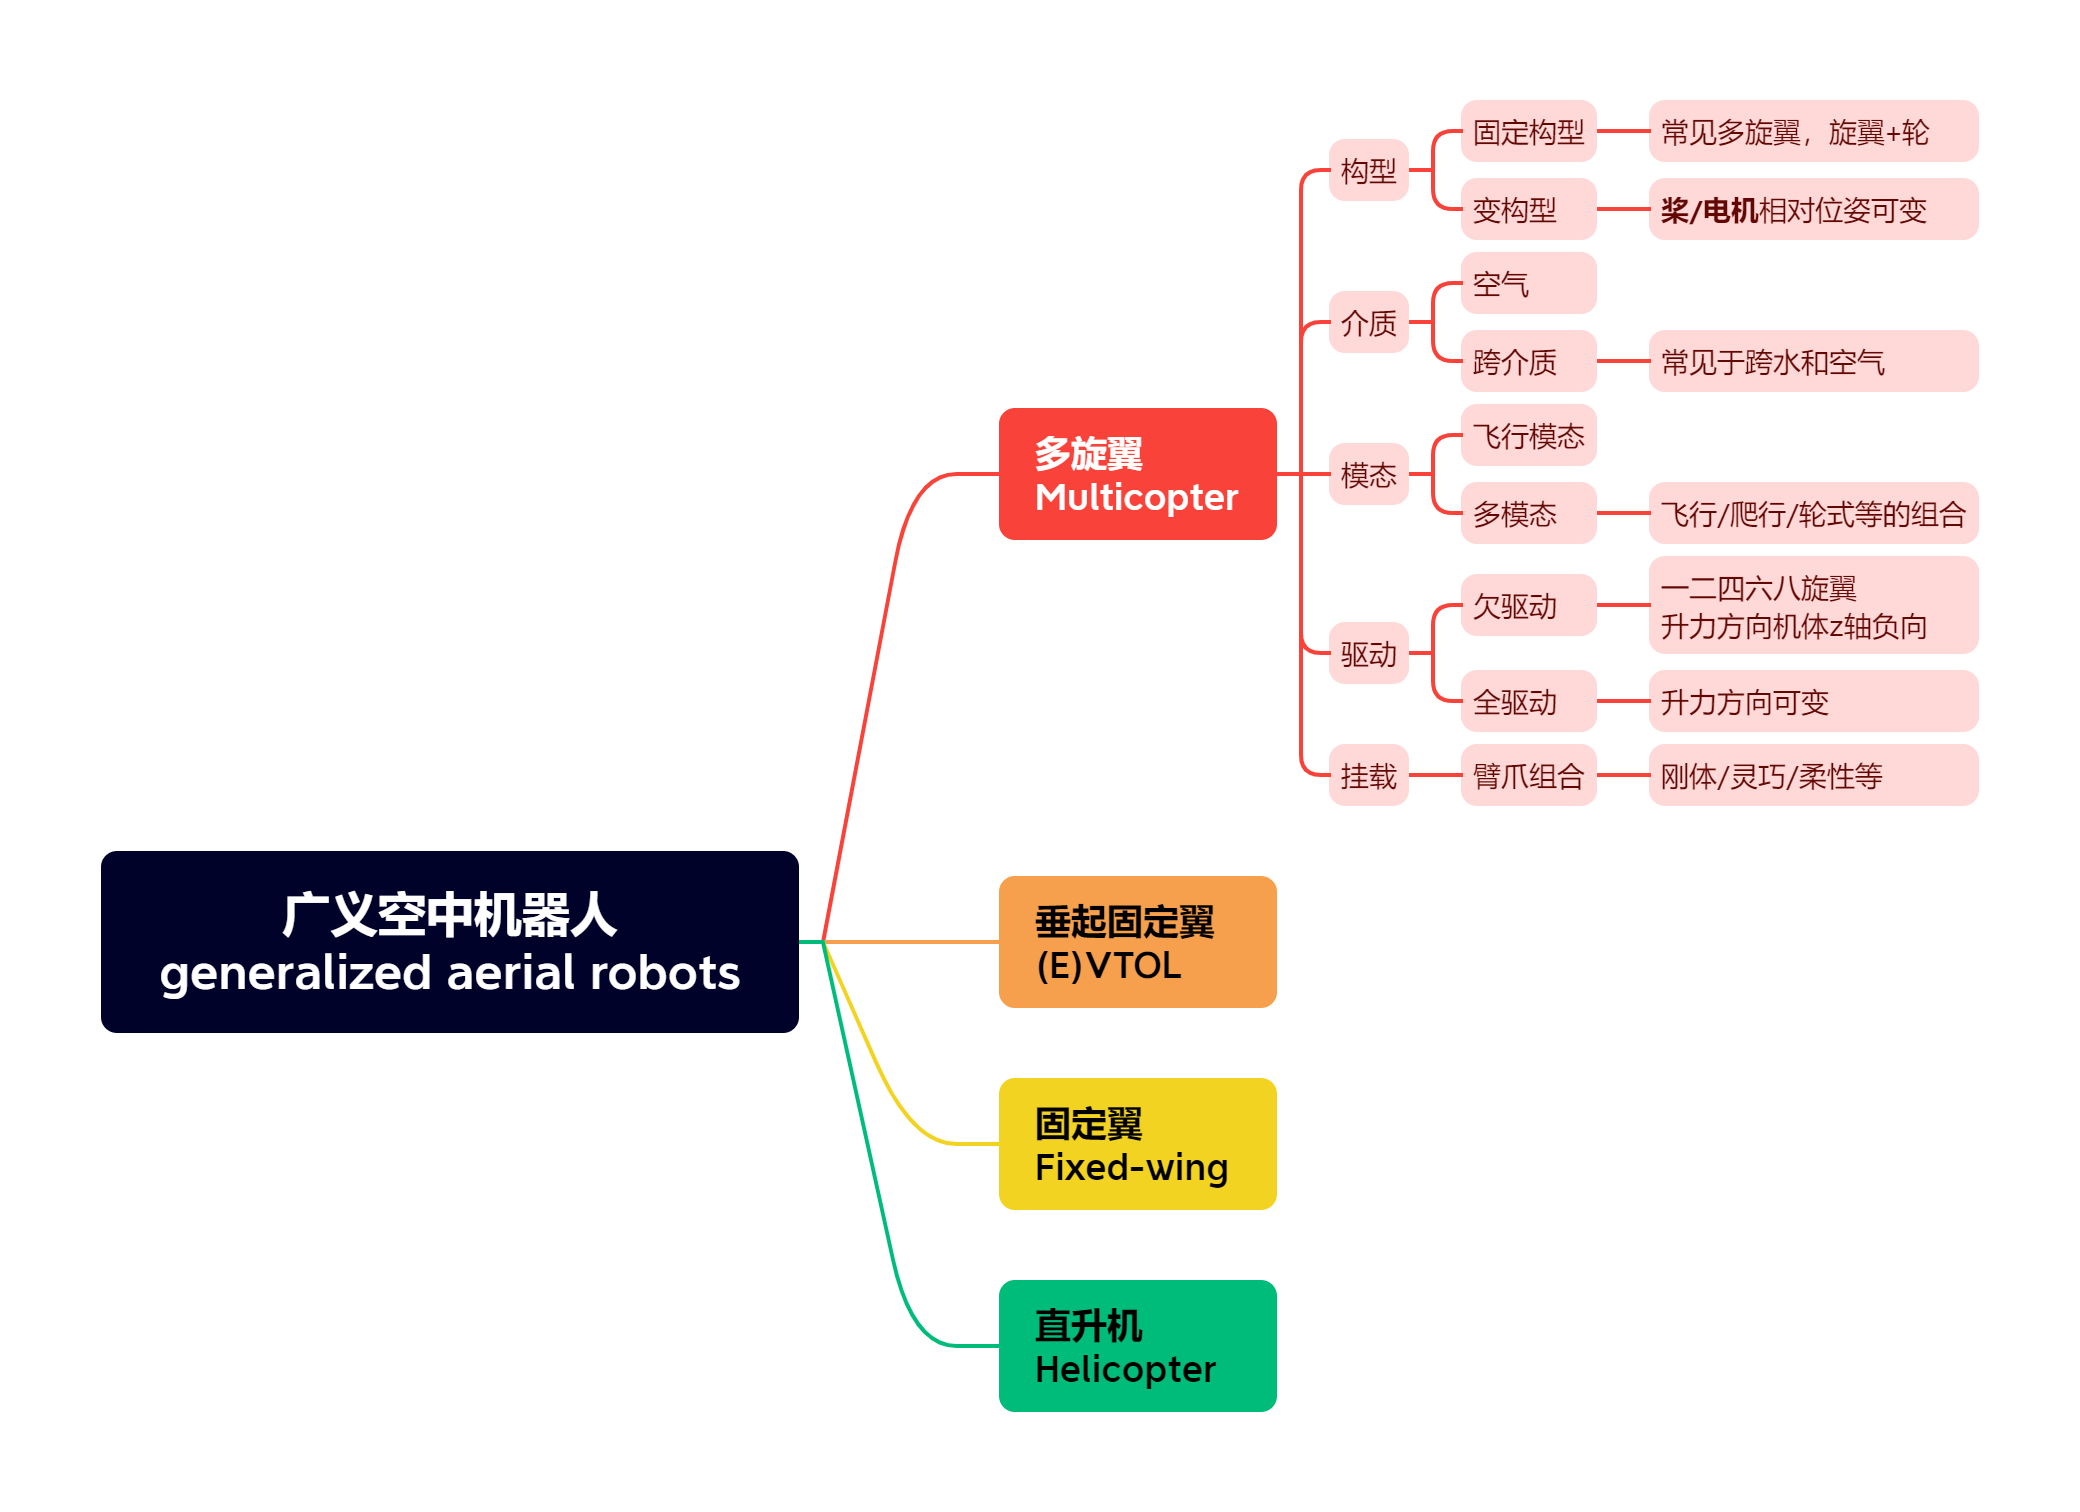
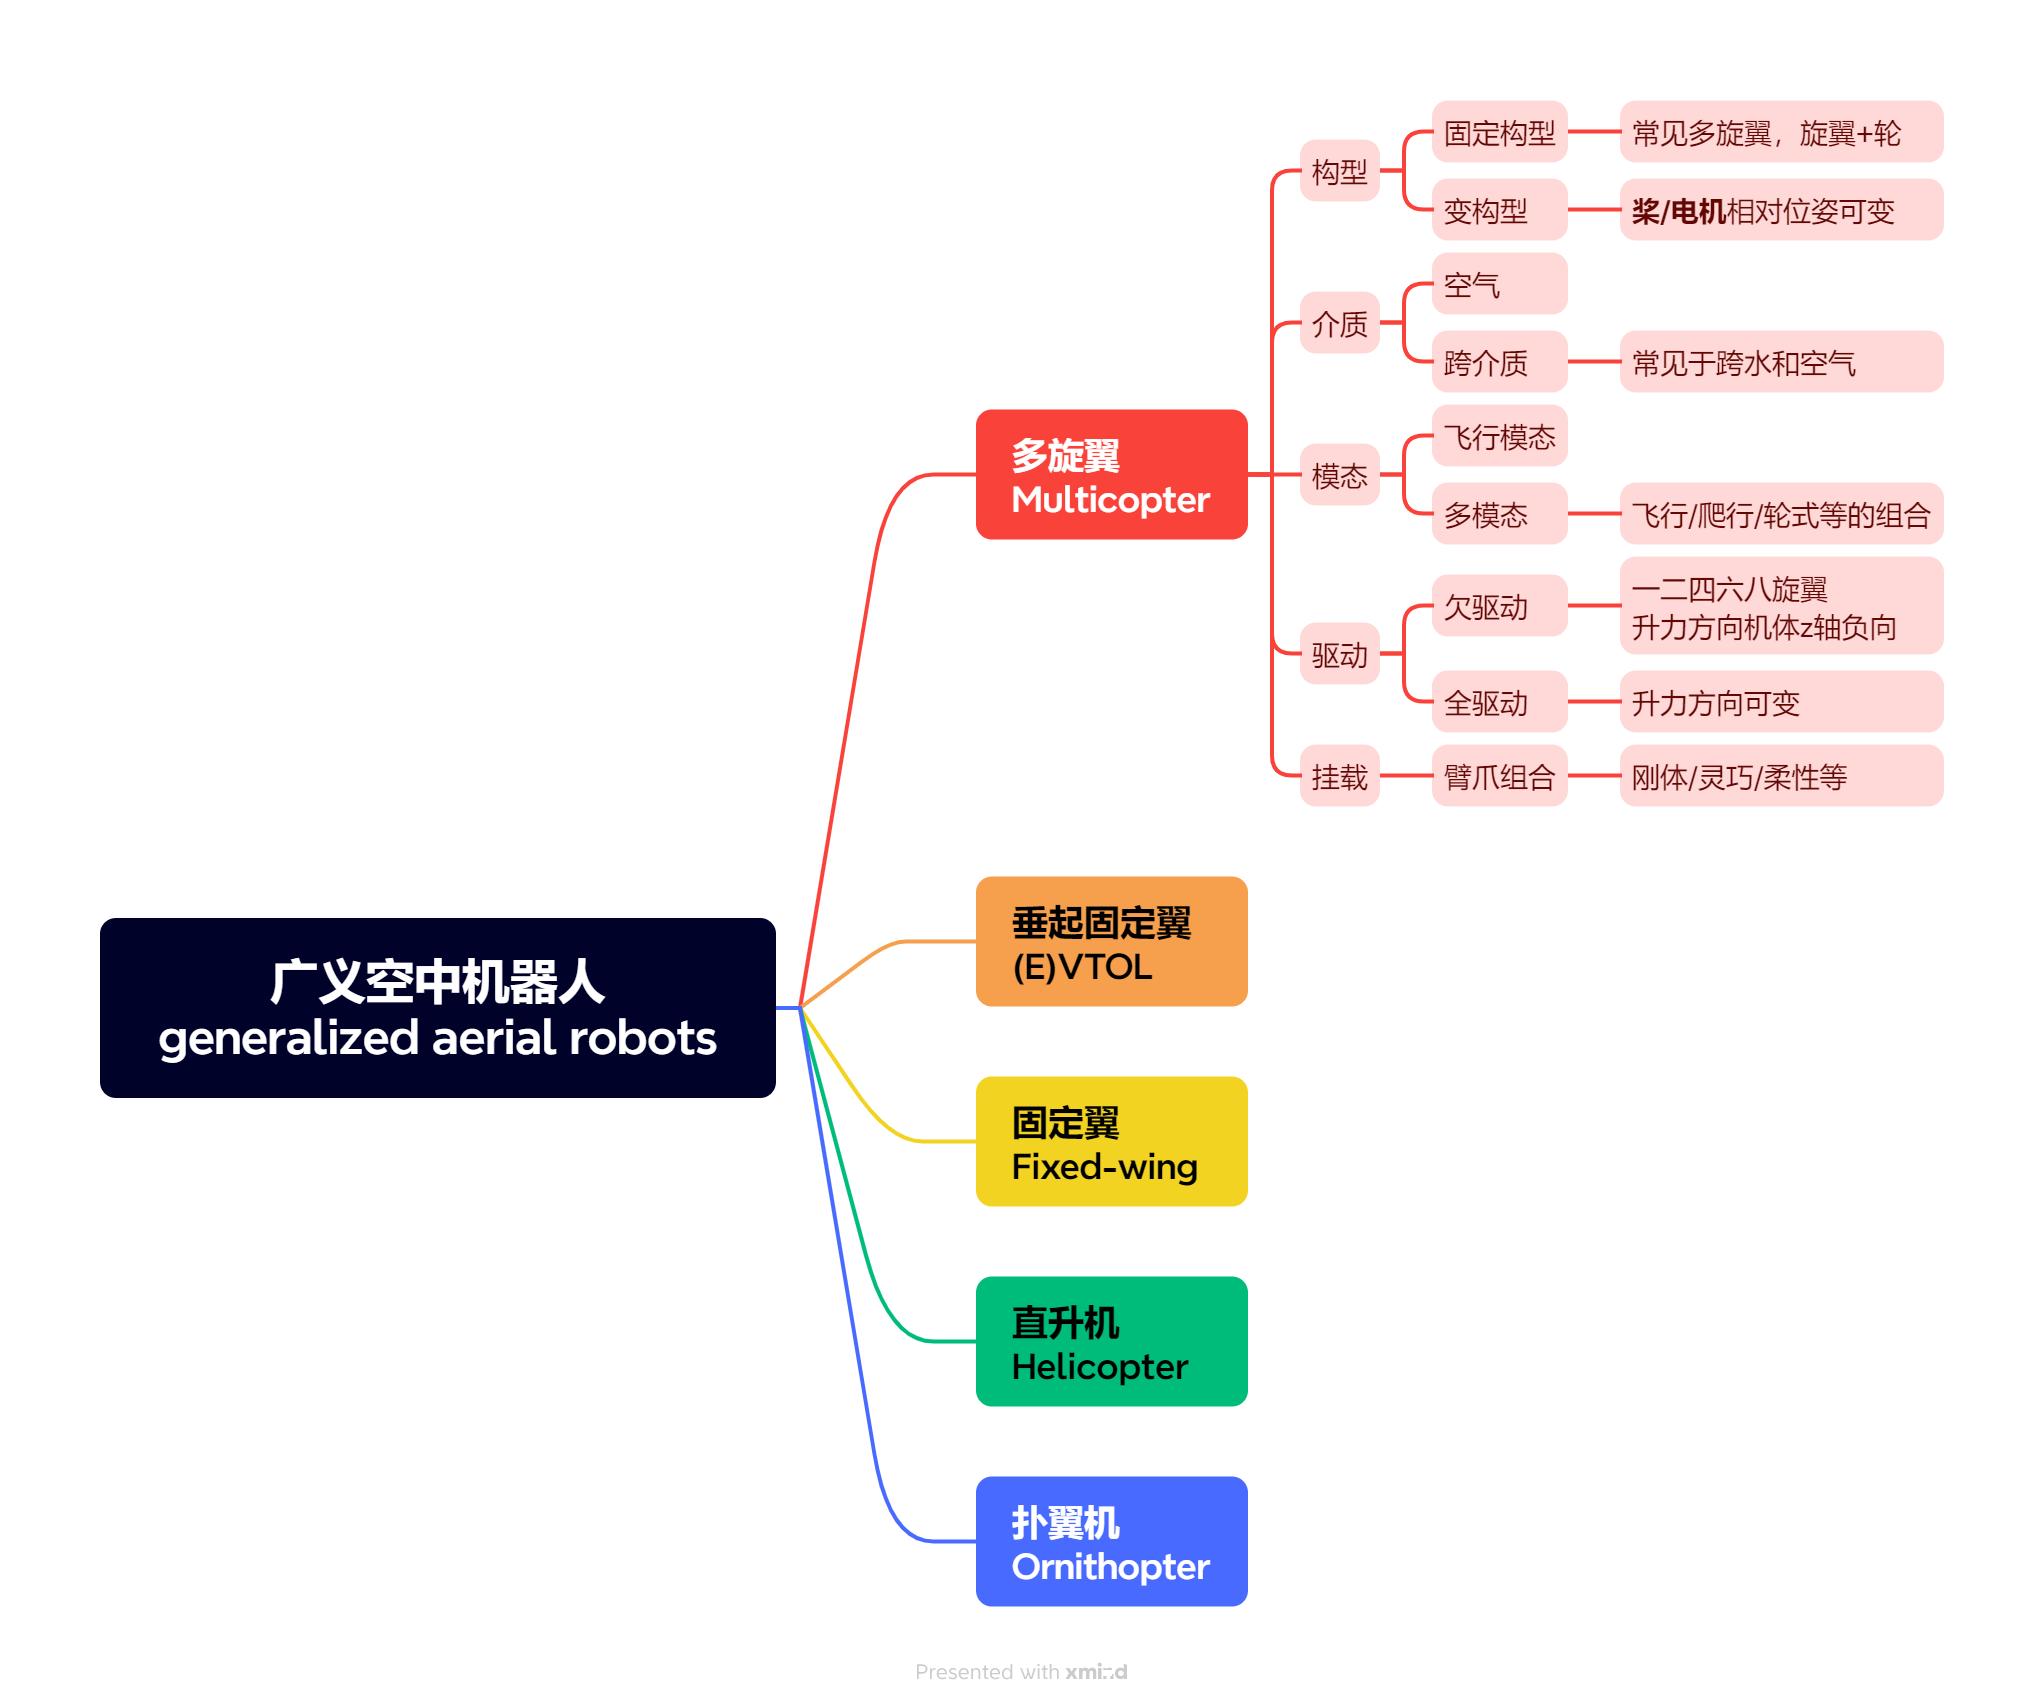
fix typo and add 2.6

Changed region(s): [[0.0308, 0.0311, 0.9555, 0.9947]]

diff --git a/README.md b/README.md
@@ -20,6 +20,7 @@
                 <li><a href="#fixed-wing">2.3 Fixed-Wing 固定翼</a></li>
                 <li><a href="#helicopter">2.4 Helicopter 直升机</a></li>
                 <li><a href="#balloon">2.5 Balloon 气球/飞艇</a></li>
+                <li><a href="#ornithopter">2.6 Ornithopter 扑翼机</a></li>
             </ul>
         </li>
         <li><a href="#research">3. Research 主要研究方向</a>
@@ -229,6 +230,10 @@
 
 ## 2.5 Balloon 气球/飞艇
 
+<section id="ornithopter"></section>
+
+## 2.6 Ornithopter 扑翼机
+
 
 
 <section id="research"></section>
@@ -240,6 +245,17 @@
 <section id="auto-flight"></section>
 
 ## 3.1 Autonomous Flight 自主飞行
+
+自主飞行包含感知，规划与控制等方面的工作。如果粗糙地将其分类，可以分成基于优化的和基于学习的两大类。其中，基于优化的往往采用前端+后端的方法，而基于学习的则各式各样。
+
+近期的工作：
+
+基于优化的工作：
+* [Minimum snap trajectory generation and control for quadrotors](https://ieeexplore.ieee.org/document/5980409), ICRA 2011, [Vijay Kumar](https://www.kumarrobotics.org/), UPenn，最早的轨迹规划工作之一，开山之作，提出四旋翼的微分平坦特性，可以用 x,y,z,yaw 及其导数来推导出12个量，因此轨迹多以x,y,z,yaw为主。
+* [Continuous-time trajectory optimization for online UAV replanning](https://ieeexplore.ieee.org/document/7759784), IROS 2016, ASL ETH，提出了基于梯度的轨迹规划方法，后续的工作也都在这个基础上进行改进。
+* 可以选择性地跳过一些基于gradient和Safe Flight Corridor的工作，直接看第一个标准优雅的规划器Fast-Planner的第一版，[Robust and Efficient Quadrotor Trajectory Generation for Fast Autonomous Flight](https://ieeexplore.ieee.org/document/8758904/), RAL 2019, HKUST Aerial Robotics Group；之后又有了第二、三版文章，分别聚焦于topological planning和perception-aware，[Robust Real-time UAV Replanning Using Guided Gradient-based Optimization and Topological Paths](https://ieeexplore.ieee.org/document/9196996/), ICRA 2020; [RAPTOR: Robust and Perception-Aware Trajectory Replanning for Quadrotor Fast Flight](https://ieeexplore.ieee.org/document/9422918/), TRO 2021
+* ESDF free的[EGO-Planner: An ESDF-Free Gradient-Based Local Planner for Quadrotors](https://ieeexplore.ieee.org/document/9309347/), RAL 2021
+* 最后到时空联合规划[[minco]](https://github.com/ZJU-FAST-Lab/GCOPTER), [Geometrically Constrained Trajectory Optimization for Multicopters](https://ieeexplore.ieee.org/document/9765821), TRO 2022, Fast Lab ZJU，提出了基于几何约束的轨迹优化方法，解决了多旋翼的时空联合规划问题。
 
 <section id="racing"></section>
 
@@ -276,6 +292,212 @@
 # 4. Tech stack 技术栈
 
 <img src="./assets/images/技术栈Aerial RoboticsTech Stack.png" alt="Aerial Robotics Tech Stack" width="800px"/>
+
+<section id="general-design"></section>
+
+## 4.1 General Design 总体设计
+
+总体设计一般是从需求出发，进行设计与分析。
+
+<section id="pure-self-design"></section>
+
+### 4.1.1 Self-Design 自主设计
+
+- CAD设计与仿真：SolidWorks, Fusion 360, CATIA
+- 机械结构仿真与分析：ANSYS, ABAQUS
+- 快速原型制作：3D打印
+- 设计翼型，根据需求确定桨叶升力系数等参数
+- 根据需求和重量要求选择电机，电调，桨叶，电池等
+
+<section id="buy-as-need"></section>
+
+### 4.1.2 Buy-as-Needed 采购
+
+根据需求，参考[飞行评测](https://flyeval.com/paper/index.html)与[Fast Drone 250](https://github.com/ZJU-FAST-Lab/Fast-Drone-250)。
+
+<section id="dynamics"></section>
+
+## 4.2 Dynamics 动力学
+
+<section id="fluid mechanics"></section>
+
+### 4.2.1 Fluid Mechanics流体力学
+
+推荐听[余文胜](https://www.aero.sjtu.edu.cn/szdw/szml/27)老师的课。
+
+<section id="aerodynamics"></section>
+
+### 4.2.2 Aerodynamics空气动力学
+
+- 气动建模与分析：XFLR5（简单构型）
+
+<section id="flightdynamics"></section>
+
+### 4.2.3 Flight Dynamics飞行力学
+
+<section id="mechanics"></section>
+
+## 4.3 Mechanics 机械
+
+<section id="embedded"></section>
+
+## 4.4 Embedded 嵌入式
+
+<section id="stm32"></section>
+
+### 4.4.1 STM32
+
+<section id="nuttx"></section>
+
+### 4.4.2 NuttX
+
+实时操作系统，支持Pixhawk开源飞控平台
+
+<section id="Pixhawk"></section>
+
+### 4.4.3 Pixhawk
+
+<section id="other-flight-hardware"></section>
+
+### 4.4.4 Other Flight Hardware
+
+<section id="communication"></section>
+
+## 4.5 Communication 通信
+
+<section id="communication-basis"></section>
+
+### 4.5.1 Communication Basics 通信原理
+
+<section id="uart"></section>
+
+### 4.5.2 UART
+
+<section id="CAN"></section>
+
+### 4.5.3 CAN
+
+<section id="ROS"></section>
+
+### 4.5.4 ROS及功能包
+
+<section id="sensing"></section>
+
+## 4.6 Sensing/Perception 传感/感知
+
+<section id="sensors"></section>
+
+### 4.6.1 Sensors 传感器
+
+<section id="sensing/state-estimation"></section>
+
+### 4.6.2 State Estimation 状态估计
+
+<section id="tracking"></section>
+
+### 4.6.3 Tracking 目标跟踪
+
+<section id="control"></section>
+
+## 4.7 Control 控制
+
+<section id="control-basis"></section>
+
+### 4.7.1 Control Basics 控制原理
+
+<section id="control-methods"></section>
+
+### 4.7.2 Control Methods 控制方法
+
+<section id="control-architecture"></section>
+
+### 4.7.3 PX4-Autopilot PX4飞控
+
+<section id="planning"></section>
+
+## 4.8 Planning 规划
+
+推荐课程：[移动机器人运动规划](https://www.shenlanxueyuan.com/course/633?source=1)
+
+<section id="path-planning"></section>
+
+### 4.8.1 Path Planning 路径规划
+
+<section id="trajectory-planning"></section>
+
+### 4.8.2 Trajectory Planning 轨迹规划
+
+<section id="motion-planning"></section>
+
+### 4.8.3 Motion Planning 运动规划
+
+<section id="task-planning"></section>
+
+### 4.8.4 Task Planning 任务规划
+
+<section id="simulation"></section>
+
+## 4.9 Simulation 仿真
+
+<section id="gazebo"></section>
+
+### 4.9.1 Gazebo
+
+<section id="air-sim"></section>
+
+### 4.9.2 AirSim
+
+<section id="Flightmare"></section>
+
+### 4.9.3 Flightmare
+
+<section id="Rotors-simulation"></section>
+
+### 4.9.4 Rotors Simulation
+
+<section id="Issac-Sim"></section>
+
+### 4.9.5 Issac Sim
+
+<section id="Aerial-Gym"></section>
+
+### 4.9.6 Aerial Gym
+
+<section id="real-flight"></section>
+
+## 4.10 Real Flight 实机
+
+<section id="remote-control"></section>
+
+### 4.10.1 Remote Control 遥控
+
+<section id="QGC"></section>
+
+### 4.10.2 QGC
+
+<section id="flight-log"></section>
+
+### 4.10.3 Flight Log 飞行日志
+
+<section id="companion-computer"></section>
+
+### 4.10.4 Companion Computer 上位机
+
+<section id="nn-methods"></section>
+
+## 4.11 NN Methods learning方法
+
+<section id="reinforcement-learning"></section>
+
+### 4.11.1 Reinforcement Learning 强化学习
+
+<section id="generative-models"></section>
+
+### 4.11.2 Generative Models 生成模型
+
+<section id="LLM"></section>
+
+### 4.11.3 (M)LLMs （视觉等模态）大语言模型
 
 
 <section id="labs-home"></section>
@@ -321,7 +543,7 @@
 
 * [GRASP Laboratory UPenn](https://www.grasp.upenn.edu/), **[Vijay Kumar](https://www.kumarrobotics.org/)**
 * [HiPeRLab UC Berkeley](https://hiperlab.berkeley.edu/)
-* [AurLab CMU](https://theairlab.org/)
+* [AirLab CMU](https://theairlab.org/)
 * [LECAR Lab CMU](https://lecar-lab.github.io/)
 * [Russ Tedrake](https://locomotion.csail.mit.edu/russt.html)
 * [MIT Aerospace Controls Laboratory](https://acl.mit.edu/)

diff --git a/Contribution.md b/Contribution.md
@@ -1,0 +1,10 @@
+## How to contribute
+
+* fork the repository
+* create a new branch
+* make your changes, add your contributions in this file
+* commit your changes
+* push your changes to your forked repository
+* create a pull request to the original repository
+
+## Contribution
